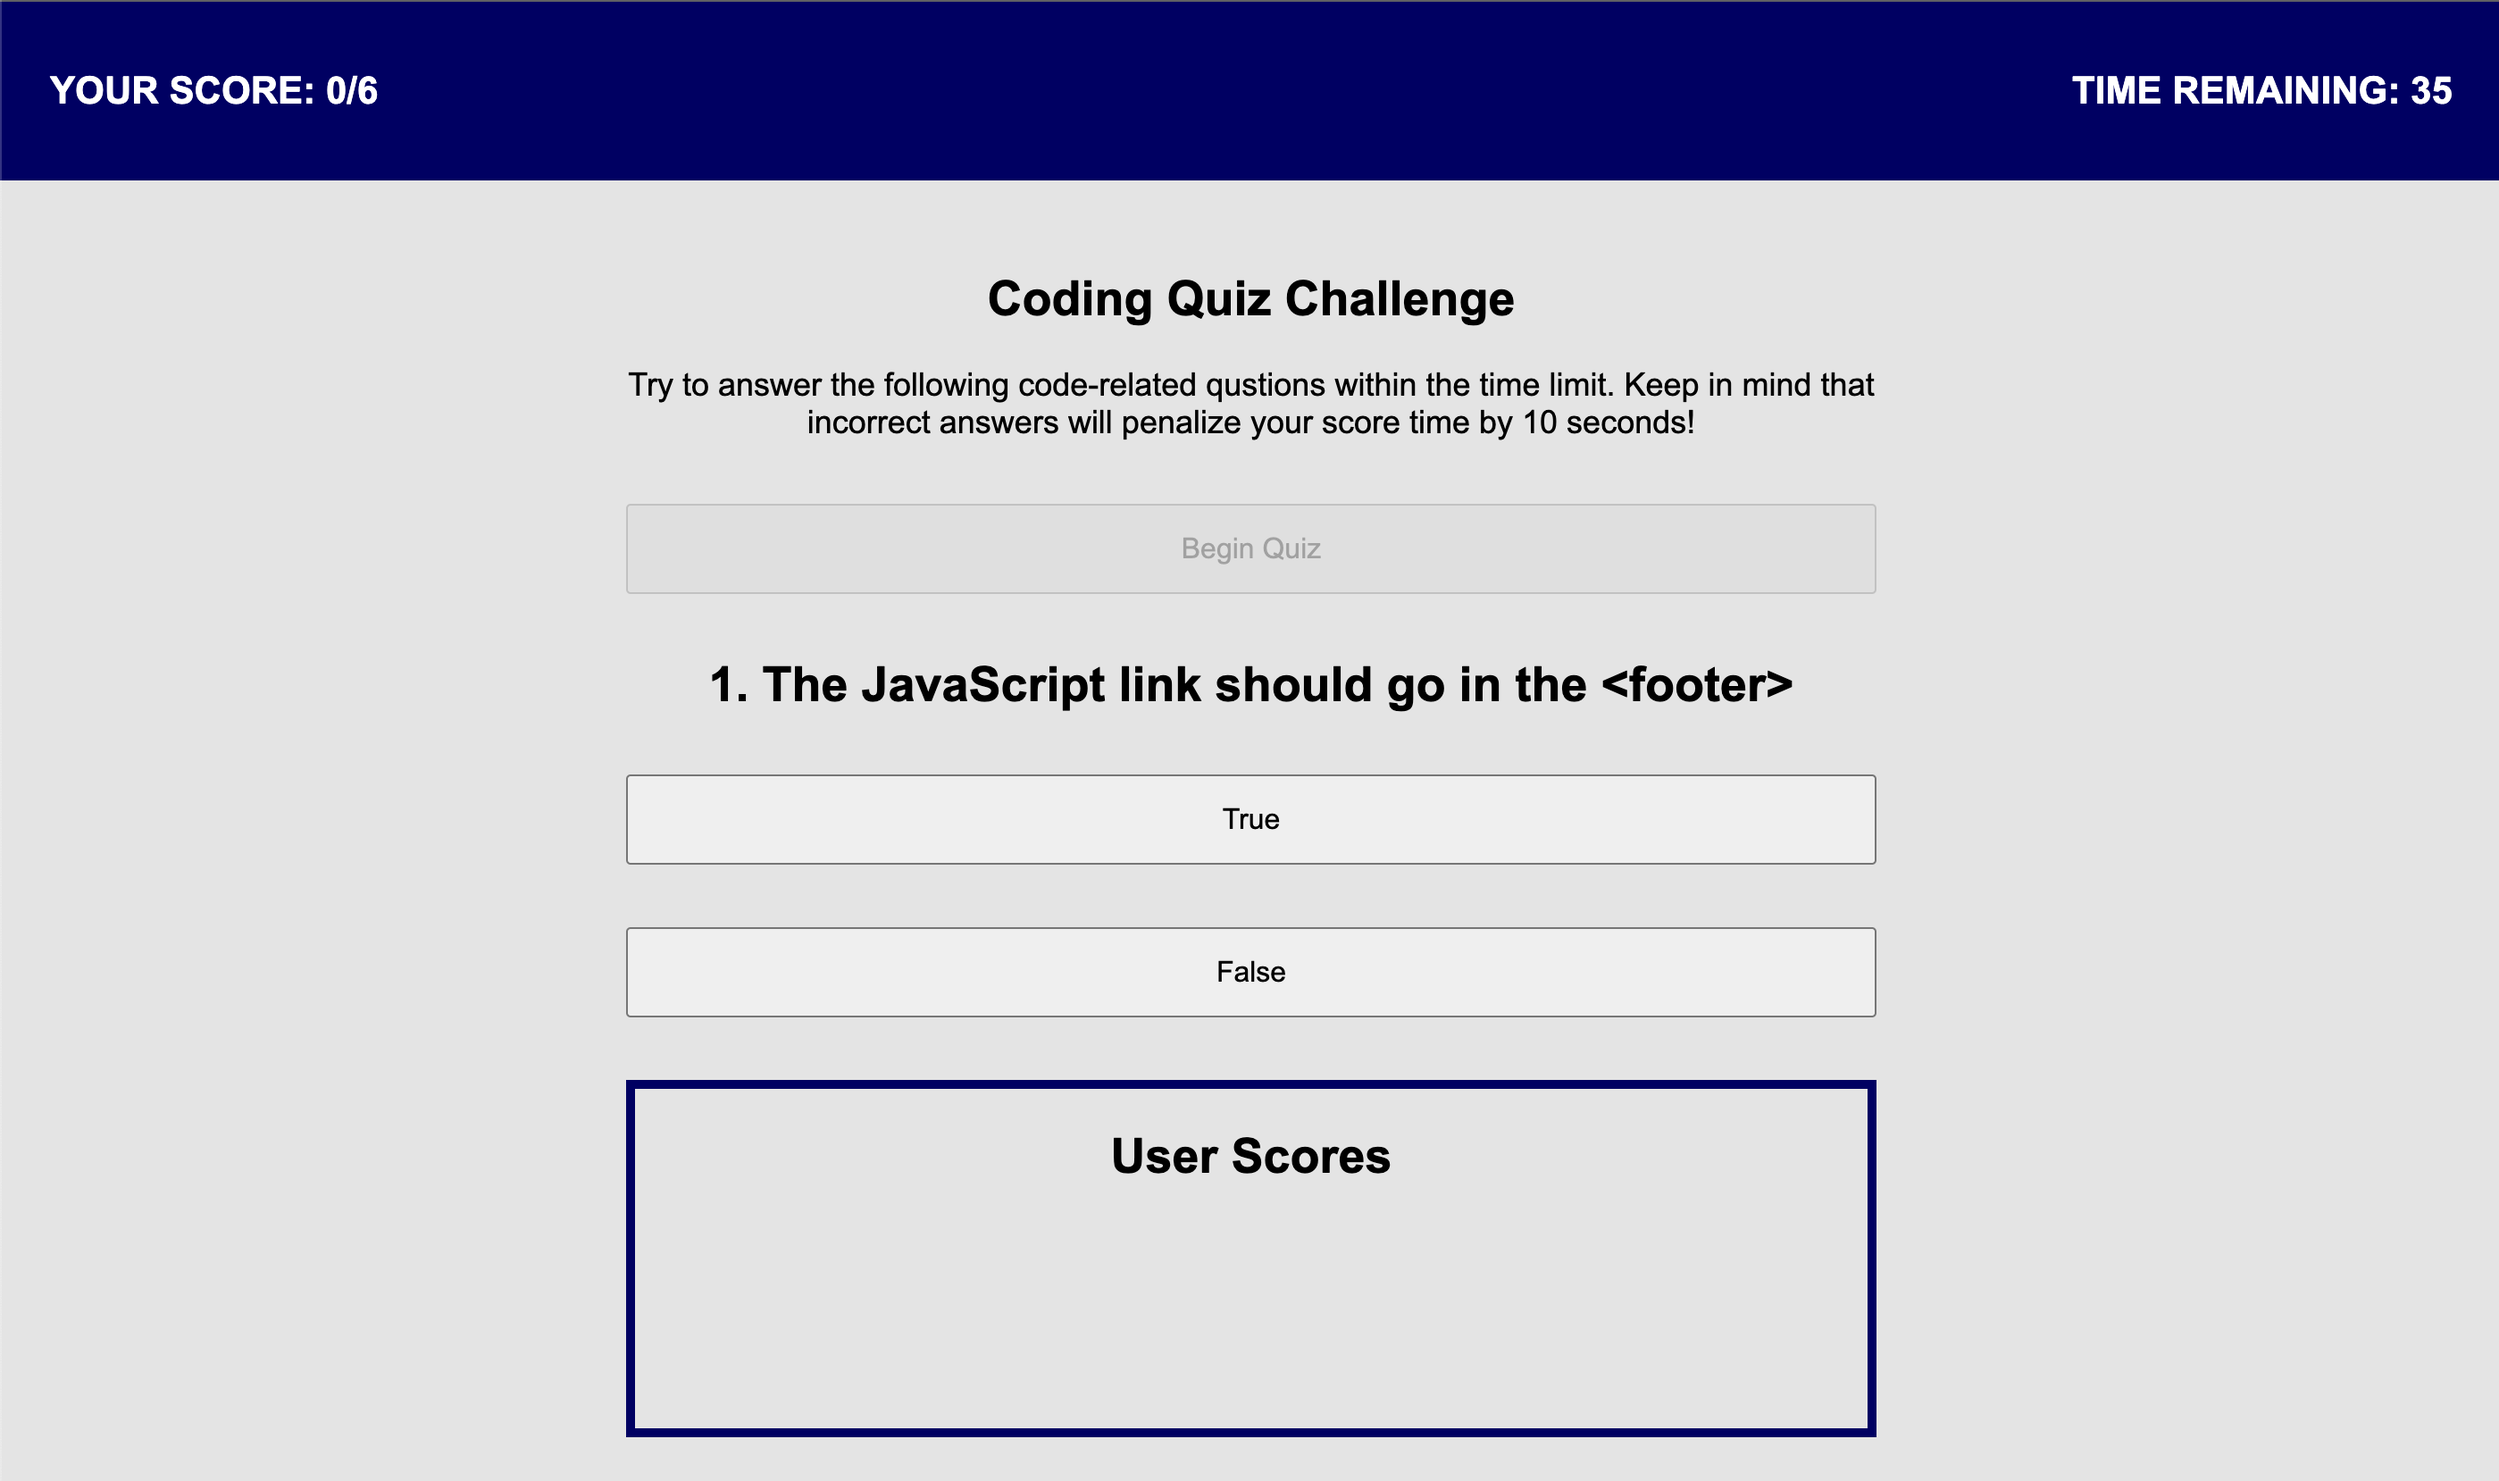
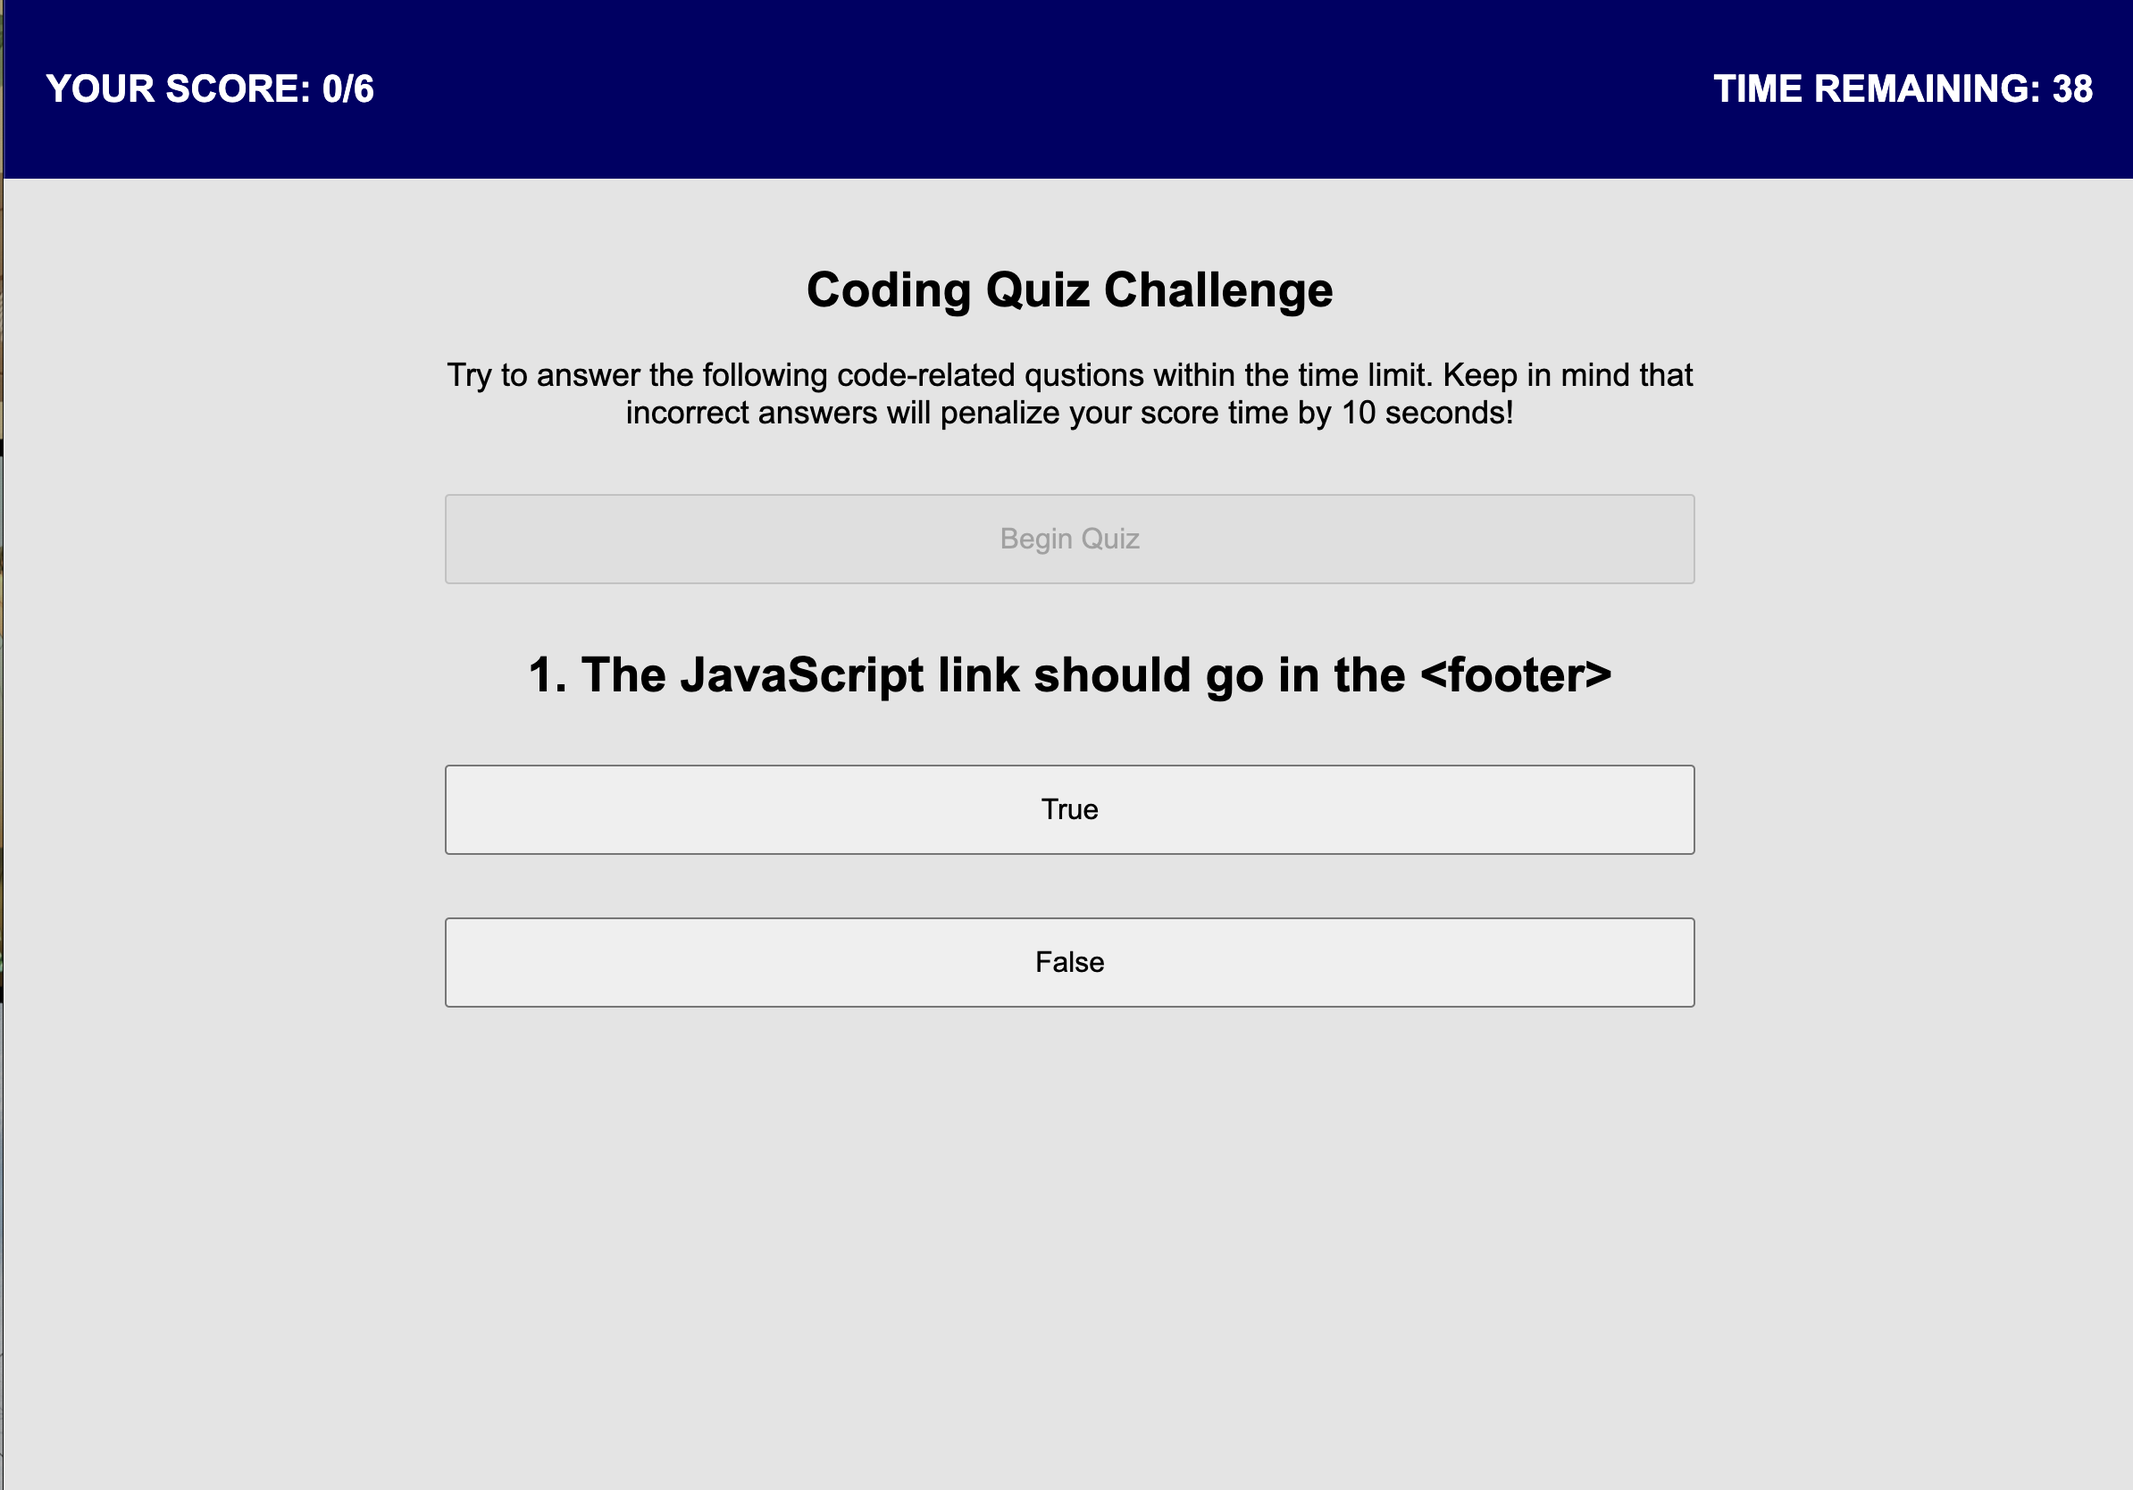
added questions, added more time to quiz, edited finished quiz prompt

diff --git a/resources/script.js b/resources/script.js
@@ -37,7 +37,7 @@ var quizQuestions = [
     ]
   },
   {
-    ask: "The correct way to start a FOR loop is: for (var i = 0; i <= 5; i++)",
+    ask: "The correct way to start a FOR loop is: for (var i = 0; i < 5; i++)",
     choices: [
       { option: "True", answer: true },
       { option: "False", answer: false },
@@ -70,7 +70,21 @@ var quizQuestions = [
       { option: "True", answer: true },
       { option: "False", answer: false },
     ]
-  }
+  },
+  {
+    ask: 'The correct way to write "Hello World" in an alert box is: alertBox("Hello World")',
+    choices: [
+      { option: "True", answer: false },
+      { option: "False", answer: true },
+    ]
+  },
+  {
+    ask: 'In JavaScript, && is a logical operator.',
+    choices: [
+      { option: "True", answer: true },
+      { option: "False", answer: false },
+    ]
+  },
 ];
 
 var currentQuestion = 0;
@@ -85,7 +99,7 @@ var askQuestion = document.createElement("h2");
 
 // Shuffle quiz questions
 function beginQuiz() {
-  timerCount = 40;
+  timerCount = 60;
   beginQuizBtn.disabled = true;
   quizSection.style.visibility = "visible";
   startTimer();
@@ -157,7 +171,7 @@ function nextQuestion() {
   currentQuestion++;
 
   if (currentQuestion >= allQuestions) {
-    playerName = window.prompt("Congrats, you finished! \n Please write your name:");
+    playerName = window.prompt("Congrats, you finished! \n You earned: " + score + "/" + allQuestions + "\n Please write your name:");
     quizSection.style.visibility = "hidden";
     userScoresSection.style.visibility = "visible";
     beginQuizBtn.disabled = true;
@@ -236,11 +250,11 @@ function displayScores() {
         showName.innerHTML = item.theirName;
         showScore.innerHTML = item.earned + "/" + quizQuestions.length;
         
-        if (item.earned === 6){
+        if (item.earned >= 5){
           showName.style.color = "green";
           showScore.style.color = "green";
         }
-    
+        
         userScoresSection.appendChild(users);
         users.appendChild(showName);
         users.appendChild(showScore);

diff --git a/resources/styles.css b/resources/styles.css
@@ -36,7 +36,7 @@ header {
 main {
     margin: 0;
     padding: 2%;
-    min-height: 1120px;
+    min-height: 1100px;
 }
 
 button {
